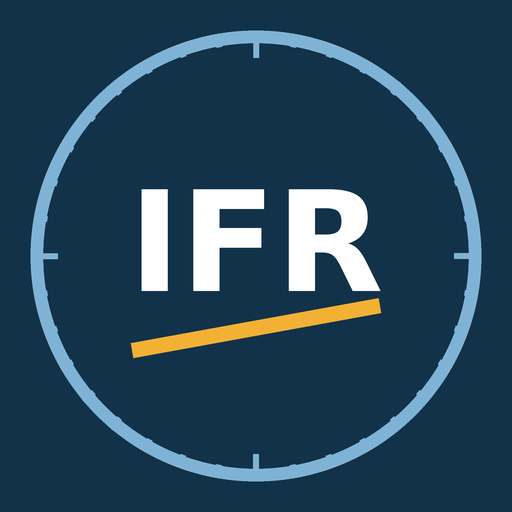
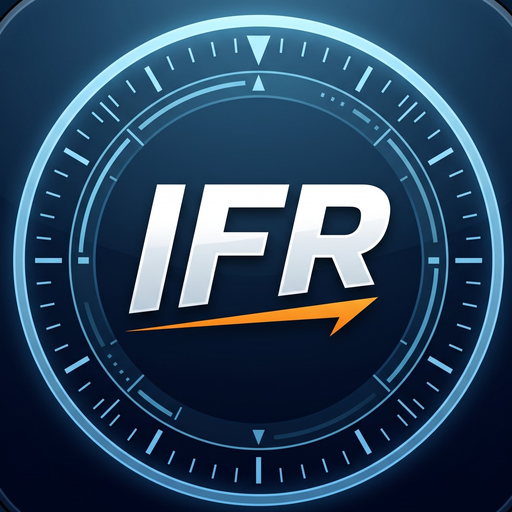
アプリのアイコンを新デザイン（IFR計器リング）に変更
Claude-Session: https://claude.ai/code/session_019o5WMtsaZH6dHt1ufJrUD5

diff --git a/sw.js b/sw.js
@@ -1,6 +1,6 @@
 // IFRブリーフィング service worker: keeps the app available offline.
 // Weather (wx.json on raw.githubusercontent.com) and external links are not cached here.
-const VERSION = 'ifrapp-20261029140735';
+const VERSION = 'ifrapp-20261029142207';
 const SCOPE = new URL(self.registration.scope).pathname;
 const APP = ['./', './index.html', './manifest.webmanifest', './icon-192.png', './icon-512.png', './icon-maskable-512.png', './apple-touch-icon.png'];
 self.addEventListener('install', e => {
